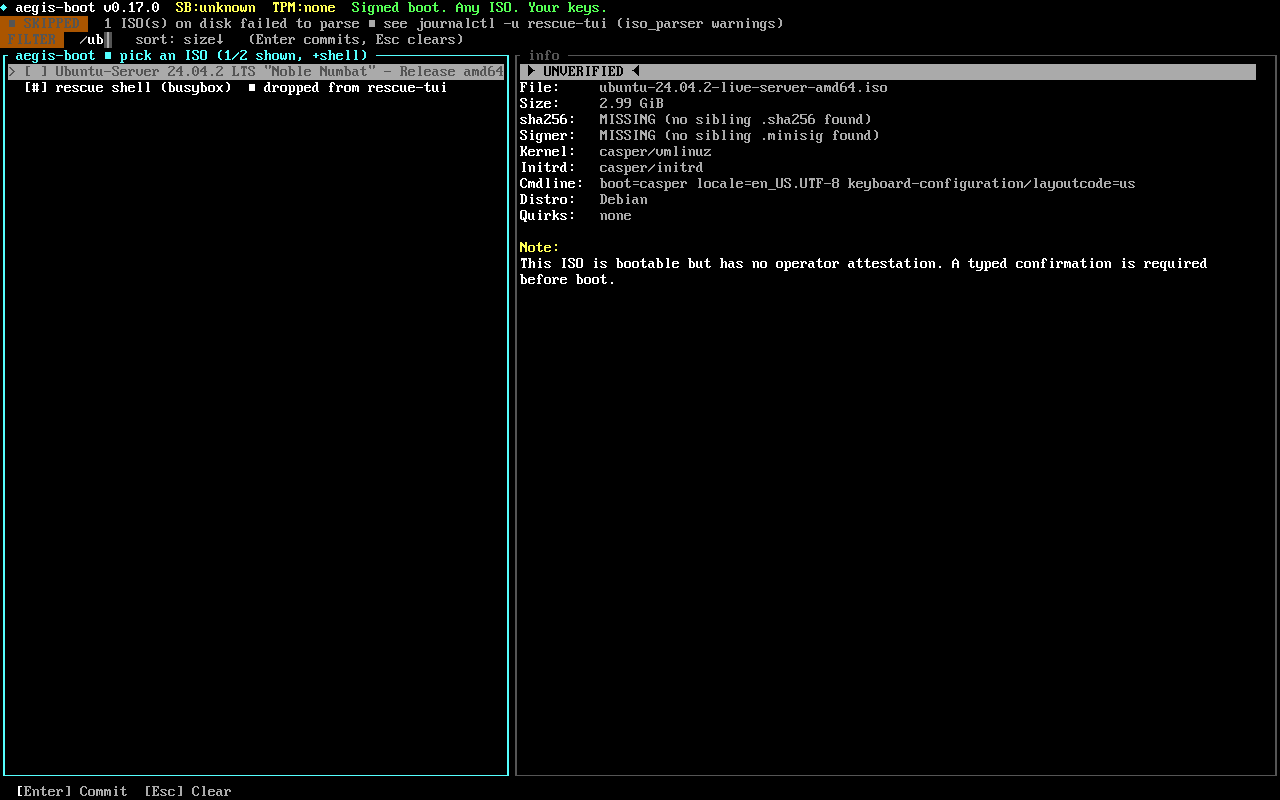
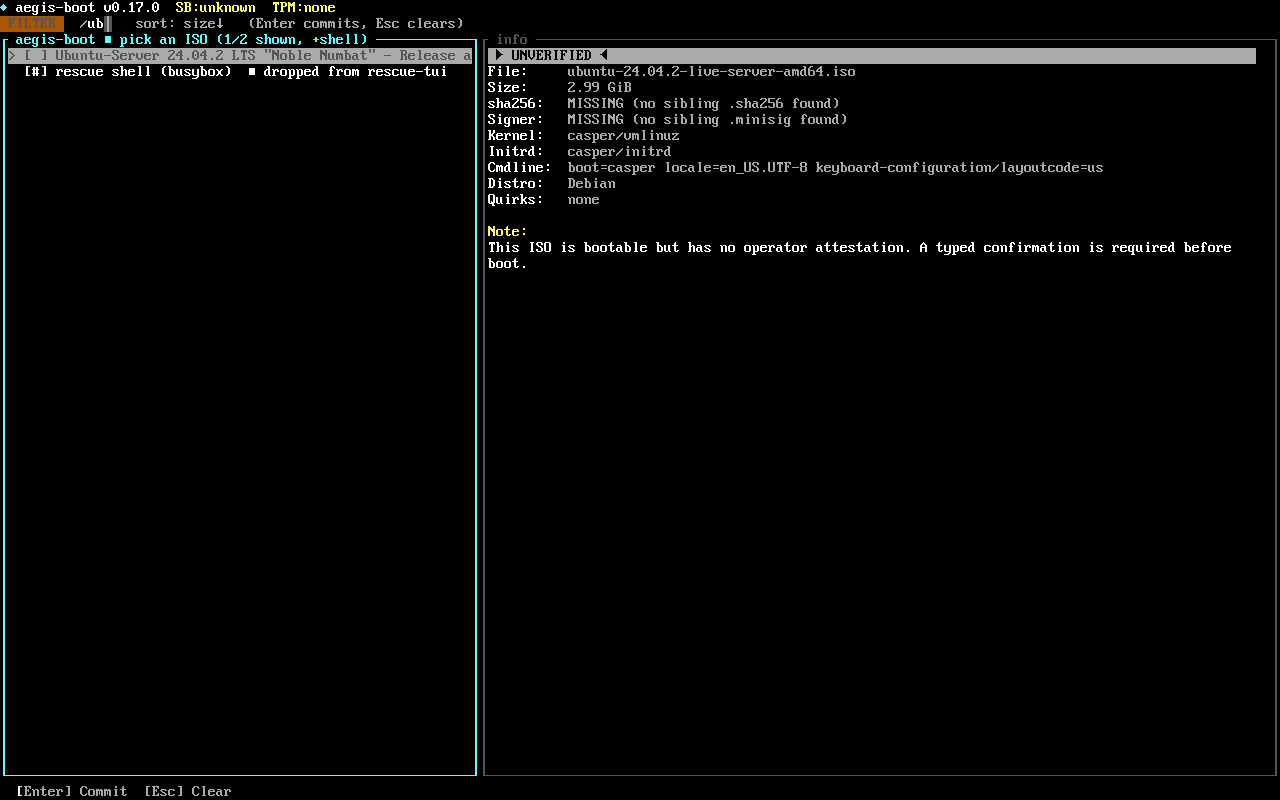
feat(rescue-tui): compact chrome + adaptive list/info split (TUI layout pass)
The header chrome was overcrowded and the 40/60 horizontal split
underused horizontal space when ISO lists were short. Designer review
(nexus-agents ux_expert) flagged six findings; this PR ships the
high-leverage subset.

PHASE A — chrome cleanup (UX-001, UX-002, UX-003)

- Drop the marketing tagline "Signed boot. Any ISO. Your keys." from
  the header. Zero rescue-time value; ate ~30 cols. Still in
  --version output and README.
- Remove the SKIPPED inline error band (#85 Tier 2 — was a
  memtest86+-style "one-frame warning"). Parse-failed ISOs already
  render as `[!] <name> — PARSE FAILED: <reason>` tier-4 list rows
  (#458). Two surfaces for the same fact was redundant; the row that
  carried the band is now reclaimed for the verdict banner on
  serial/OVMF (80×25) consoles.

Net: 1-2 rows reclaimed at the top of the list screen.

PHASE B — adaptive split (UX-004)

The list/info pane split now adapts to terminal width:

  width <  100 cols → vertical: list on top, info pane below.
                      The 40/60 horizontal split chops kernel
                      cmdlines on serial/OVMF and centers the
                      verdict banner over a tiny pane.
  width >= 100 cols → horizontal, but the list pane width is
                      `min(longest_label + 12, 40% of body)`.
                      Short ISO sets shrink the list pane and
                      give the info pane more room for sha256 /
                      cmdline / signer chain.
[…]

Changed region(s): [[0.0, 0.0, 1.0, 0.9688]]

diff --git a/crates/rescue-tui/src/render.rs b/crates/rescue-tui/src/render.rs
@@ -282,14 +282,18 @@ fn draw_header(frame: &mut Frame<'_>, area: Rect, state: &AppState) {
     // brand colour directly — renders across every theme.
     let brand = ratatui::style::Color::Rgb(0x3B, 0x82, 0xF6);
 
-    // Design-review fix #1: degrade the header for narrow terminals
-    // instead of truncating mid-word. The tagline is the first thing
-    // to go; then TPM; then SB. The shield mark + name + version
-    // always survive.
-    //   ≥90 cols → mark + name + version + SB + TPM + tagline
-    //   ≥70 cols → mark + name + version + SB + TPM
-    //   ≥50 cols → mark + name + version + SB
-    //   <50 cols → mark + name + version
+    // Phase A layout cleanup: the marketing tagline ("Signed boot.
+    // Any ISO. Your keys.") was zero-functional during a rescue boot
+    // and ate ~30 cols of header space; dropped here. The version +
+    // SB + TPM trio remains — those are operator-actionable
+    // ("UNKNOWN SB? My firmware lied about Secure Boot") and survive
+    // through every theme.
+    //
+    // Width-degradation order (TPM is the next to go on serial-narrow
+    // consoles, then SB, then mark+name+version always survive):
+    //   ≥70 cols → ◆ aegis-boot vX.Y.Z   SB:state   TPM:state
+    //   ≥50 cols → ◆ aegis-boot vX.Y.Z   SB:state
+    //   <50 cols → ◆ aegis-boot vX.Y.Z
     let mut spans = vec![
         Span::styled(
             "◆ ",
@@ -312,15 +316,6 @@ fn draw_header(frame: &mut Frame<'_>, area: Rect, state: &AppState) {
         spans.push(Span::styled(
             state.tpm.summary(),
             Style::default().fg(tpm_color),
-        ));
-    }
-    if area.width >= 90 {
-        spans.push(Span::raw("  "));
-        spans.push(Span::styled(
-            "Signed boot. Any ISO. Your keys.",
-            Style::default()
-                .fg(state.theme.success)
-                .add_modifier(Modifier::ITALIC | Modifier::DIM),
         ));
     }
     let header = Line::from(spans);
@@ -698,45 +693,21 @@ fn draw_empty_list(frame: &mut Frame<'_>, area: Rect, state: &AppState) {
     frame.render_widget(panel, area);
 }
 
-/// Compute layout + render the optional inline error band (#85 Tier 2
-/// last child) on the List screen. Returns `(info_area, list_area)`
-/// for the caller to render into. Extracted from `draw_list` so the
-/// main draw function stays under the workspace-wide 100-line cap.
-fn split_list_chrome(frame: &mut Frame<'_>, area: Rect, state: &AppState) -> (Rect, Rect) {
-    // Tier 2 (#85) — info bar above list shows filter + sort state.
-    // When some ISOs on disk failed to parse, insert a one-line inline
-    // error band ABOVE the info bar so it's unmissable without modal
-    // interruption — memtest86+-style "one-frame warning".
-    if state.skipped_iso_count > 0 {
-        let chunks = Layout::default()
-            .direction(Direction::Vertical)
-            .constraints([
-                Constraint::Length(1), // error band
-                Constraint::Length(1), // info bar
-                Constraint::Min(1),    // list
-            ])
-            .split(area);
-        let band = Paragraph::new(Line::from(vec![
-            Span::styled(
-                " \u{26A0} SKIPPED ",
-                Style::default()
-                    .fg(state.theme.warning)
-                    .add_modifier(Modifier::REVERSED | Modifier::BOLD),
-            ),
-            Span::raw(format!(
-                "  {} ISO(s) on disk failed to parse — see journalctl -u rescue-tui (iso_parser warnings)",
-                state.skipped_iso_count
-            )),
-        ]));
-        frame.render_widget(band, chunks[0]);
-        (chunks[1], chunks[2])
-    } else {
-        let chunks = Layout::default()
-            .direction(Direction::Vertical)
-            .constraints([Constraint::Length(1), Constraint::Min(1)])
-            .split(area);
-        (chunks[0], chunks[1])
-    }
+/// Compute layout for the List screen chrome. Returns
+/// `(info_area, list_area)` for the caller to render into.
+///
+/// The earlier SKIPPED band (#85 Tier 2) was removed in the Phase A
+/// layout cleanup: parse-failed ISOs render as `[!] <name> — PARSE
+/// FAILED: <reason>` tier-4 rows directly in the list (#458), which
+/// is the same fact through a single source of truth. The redundant
+/// banner ate a row of vertical real estate on 80×25 consoles where
+/// the verdict banner most needs to be above the fold.
+fn split_list_chrome(_frame: &mut Frame<'_>, area: Rect, _state: &AppState) -> (Rect, Rect) {
+    let chunks = Layout::default()
+        .direction(Direction::Vertical)
+        .constraints([Constraint::Length(1), Constraint::Min(1)])
+        .split(area);
+    (chunks[0], chunks[1])
 }
 
 /// Render the top-of-list-chrome info line (filter banner while
@@ -794,20 +765,65 @@ fn draw_list(frame: &mut Frame<'_>, area: Rect, state: &AppState, selected: usiz
     }
 
     // Chrome: (filter/sort hint line) on top, (main body) below. The
-    // main body is now a 40/60 horizontal split between the ISO list
-    // (left) and the info pane (right). (#458)
+    // main body splits between the ISO list and the info pane; the
+    // split orientation + ratio adapts to terminal size (Phase B
+    // layout cleanup, #DESIGN-UX-004):
+    //
+    //   < 100 cols → vertical: list on top, info below. The 40/60
+    //                horizontal split chops kernel cmdlines on
+    //                serial/OVMF consoles and centers the verdict
+    //                banner over a tiny pane.
+    //   ≥ 100 cols → horizontal: list left, info right, but the
+    //                list pane width is `min(40%, longest_row+4)` so
+    //                short ISO sets shrink the list pane and give
+    //                the info pane more room for sha256 / cmdline /
+    //                signer chain.
     let (info_line_area, body_area) = split_list_chrome(frame, area, state);
-    let panes = Layout::default()
-        .direction(Direction::Horizontal)
-        .constraints([Constraint::Percentage(40), Constraint::Percentage(60)])
-        .split(body_area);
-    let (list_area, info_pane_area) = (panes[0], panes[1]);
+    let entries = state.visible_entries();
+    let (list_area, info_pane_area) = if body_area.width < 100 {
+        // Compact / vertical layout for narrow terminals.
+        let chunks = Layout::default()
+            .direction(Direction::Vertical)
+            // Cap list at min(8 rows + chrome, 50% of body) so info
+            // pane keeps half the screen even with a long list.
+            .constraints([Constraint::Percentage(40), Constraint::Percentage(60)])
+            .split(body_area);
+        (chunks[0], chunks[1])
+    } else {
+        // Wide / horizontal layout with adaptive list width.
+        let longest_label = entries
+            .iter()
+            .map(|e| match e {
+                ViewEntry::Iso(i) => state
+                    .isos
+                    .get(*i)
+                    .map_or(0, |iso| iso.label.chars().count()),
+                ViewEntry::FailedIso(i) => state.failed_isos.get(*i).map_or(0, |f| {
+                    f.iso_path
+                        .file_name()
+                        .map_or(0, |n| n.to_string_lossy().chars().count())
+                }),
+                ViewEntry::RescueShell => "rescue shell (busybox) — dropped from rescue-tui"
+                    .chars()
+                    .count(),
+            })
+            .max()
+            .unwrap_or(20);
+        // Add ~12 cols for the leading status glyph, distro tag, and
+        // borders. Cap at 40% so the info pane never starves.
+        let list_cols_fit = u16::try_from(longest_label.saturating_add(12)).unwrap_or(u16::MAX);
+        let list_cols_max = body_area.width * 40 / 100;
+        let list_cols = list_cols_fit.min(list_cols_max).max(20);
+        let chunks = Layout::default()
+            .direction(Direction::Horizontal)
+            .constraints([Constraint::Length(list_cols), Constraint::Min(40)])
+            .split(body_area);
+        (chunks[0], chunks[1])
+    };
 
     render_list_info_line(frame, info_line_area, state);
 
-    // Full entries view includes the rescue-shell synthetic row at
-    // the end, even when the ISO list is empty (#90).
-    let entries = state.visible_entries();
+    // `entries` already computed above for the layout decision.
     let iso_entries: Vec<usize> = entries
         .iter()
         .filter_map(|e| {
@@ -2025,28 +2041,30 @@ mod tests {
     }
 
     #[test]
-    fn list_inline_band_appears_when_some_isos_skipped() {
-        // (#85 Tier 2 last child) — operator sees "N ISO(s) on disk
-        // failed to parse" without needing to read journalctl.
+    fn list_skipped_band_removed_in_phase_a_layout_cleanup() {
+        // Phase A removed the SKIPPED band (#85 Tier 2 — was a
+        // memtest86+-style one-frame warning). Parse-failed ISOs now
+        // render as tier-4 `[!] <name> — PARSE FAILED: <reason>` rows
+        // directly in the list (#458). The band was redundant and ate
+        // a row that the verdict banner needed on 80×25 consoles.
+        //
+        // This regression-guard test asserts the literal "SKIPPED"
+        // header text is gone from the render even when ISOs are
+        // marked as skipped (the field still exists on AppState; the
+        // rendering of it is what's removed).
         let state = AppState::new(vec![fake_iso("ok")]).with_skipped_iso_count(2);
         let s = render_to_string(&state);
         assert!(
-            s.contains("SKIPPED") && s.contains("2 ISO(s) on disk failed to parse"),
-            "expected inline error band in: {s}",
-        );
-        // The good ISO should still render alongside the band.
-        assert!(s.contains("ok"));
-    }
-
-    #[test]
-    fn list_no_inline_band_when_nothing_skipped() {
-        // Default count is 0; band should not appear.
-        let state = AppState::new(vec![fake_iso("ok")]);
-        let s = render_to_string(&state);
-        assert!(
             !s.contains("SKIPPED"),
-            "unexpected error band in clean-state render: {s}",
+            "Phase A removed the SKIPPED band; render should not contain it: {s}",
         );
+        assert!(
+            !s.contains("ISO(s) on disk failed to parse"),
+            "Phase A removed the SKIPPED band copy: {s}",
+        );
+        // The good ISO must still render — removing the band must not
+        // affect the list content.
+        assert!(s.contains("ok"));
     }
 
     #[test]
